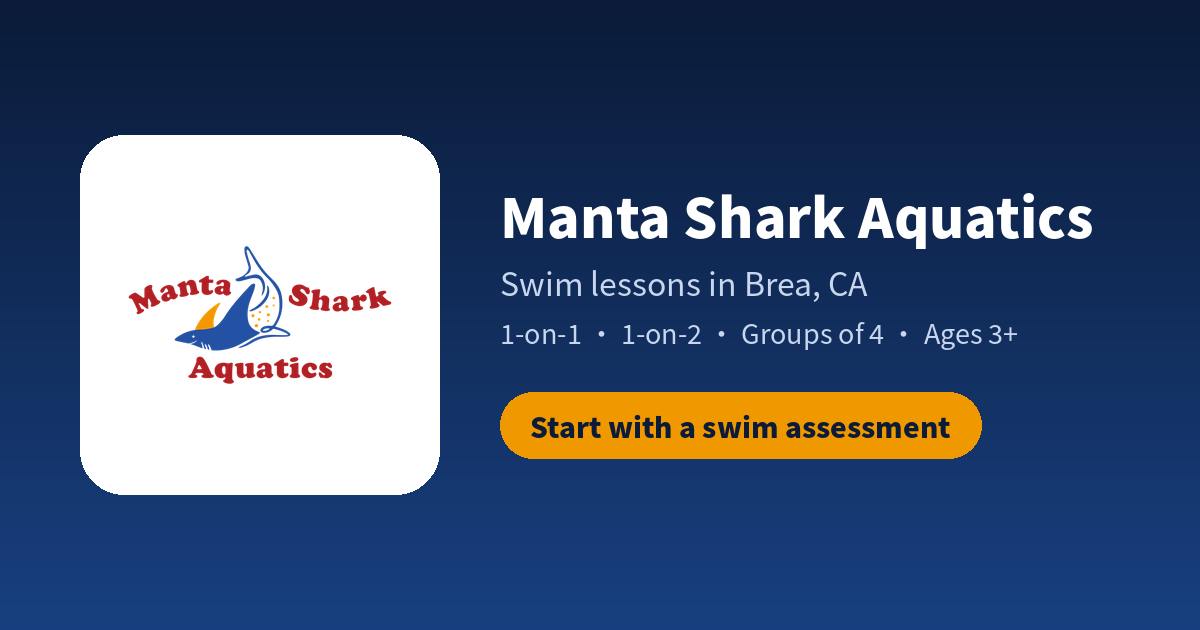
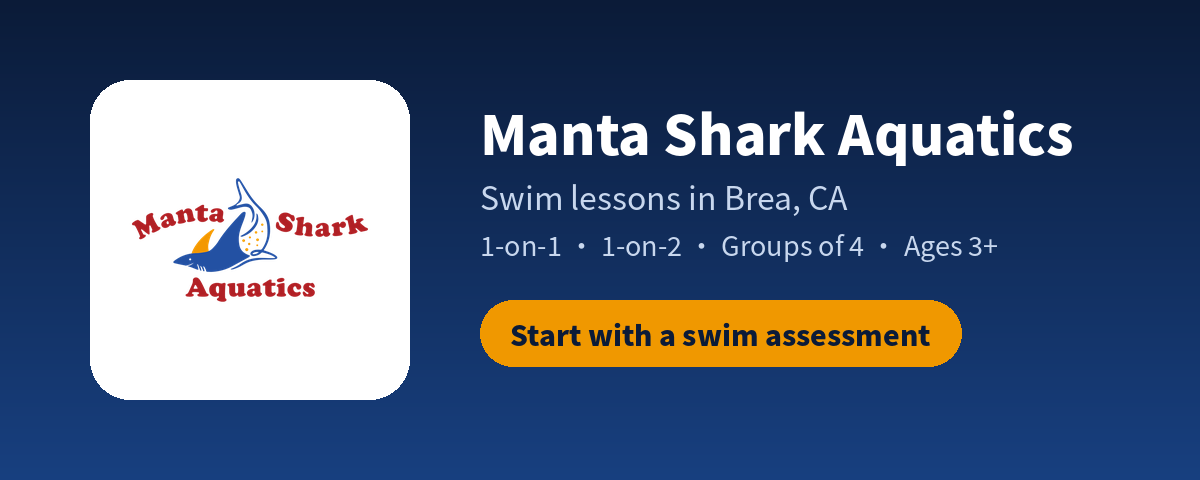
Link previews: shorter card for text messages, one-line referral title
Messages draws the preview picture across the whole bubble, so at 1200x630
the card filled most of a phone screen. The pictures are now 1200x480 with
the same layout, and the referral title is one line (朋友邀請您一起來學游泳)
since the school's name is already in the picture. Most families share by
text message; LINE's centre-cropped thumbnail is accepted as is (owner).
Image URLs carry ?v=2 so cached previews pick up the new pictures.

Claude-Session: https://claude.ai/code/session_01BXy7yj3gN5QK6CqkEfCB9M

Changed region(s): [[0.4008, 0.2188, 0.925, 0.5625], [0.0617, 0.1562, 0.37, 0.8438], [0.4008, 0.5938, 0.8325, 0.7812]]

diff --git a/lib/og.ts b/lib/og.ts
@@ -1,8 +1,14 @@
 // Link-preview images: what a pasted link shows in Messages, LINE, WhatsApp
 // and the like. Without them the card was the page title and the framework's
 // default triangle icon. The files are in public/og/.
-export const SITE_OG_IMAGE = { url: '/og/default.png', width: 1200, height: 630, alt: 'Manta Shark Aquatics' }
+//
+// 1200x480, flatter than the usual 1.91:1, on purpose: Messages draws the
+// picture across the whole bubble, and at 630 tall the card filled most of a
+// phone screen. Most families share by text message (owner, 2026-09-29).
+// LINE crops its thumbnail from the middle; accepted, not designed for.
+// Bump ?v= when a picture changes: link previews cache images by URL.
+export const SITE_OG_IMAGE = { url: '/og/default.png?v=2', width: 1200, height: 480, alt: 'Manta Shark Aquatics' }
 
 // The referral card says "朋友邀請您 · 兩家各得 40 點". The 40 is baked into
 // the picture: if REFERRAL_POINTS in lib/points.ts changes, redraw it.
-export const REFERRAL_OG_IMAGE = { url: '/og/referral.png', width: 1200, height: 630, alt: 'Manta Shark Aquatics' }
+export const REFERRAL_OG_IMAGE = { url: '/og/referral.png?v=2', width: 1200, height: 480, alt: 'Manta Shark Aquatics' }

diff --git a/app/(auth)/register/page.tsx b/app/(auth)/register/page.tsx
@@ -9,7 +9,8 @@ import { REFERRAL_POINTS } from '@/lib/points'
 // Owner's call, 2026-09-29: the preview says a friend invited you, WITHOUT the
 // inviting family's name, and pairs the English school name in the picture
 // with a Chinese invitation.
-const REF_TITLE = '朋友邀請您一起來 Manta Shark Aquatics 學游泳'
+// One line in a Messages bubble; the school's name is already in the picture.
+const REF_TITLE = '朋友邀請您一起來學游泳'
 const REF_DESCRIPTION = `用朋友的連結註冊，上完第一堂課後兩家各得 ${REFERRAL_POINTS} 點。`
 
 export async function generateMetadata(
